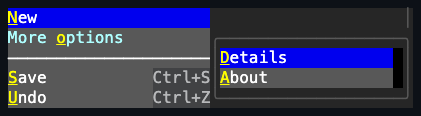
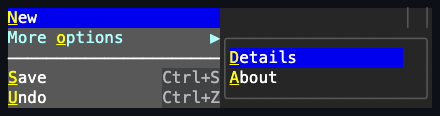
Refresh bar showcase and documentation

diff --git a/examples/Showcase/Panes/MenuPane.cs b/examples/Showcase/Panes/MenuPane.cs
@@ -120,6 +120,7 @@ internal sealed class MenuPane: CompositeControlBase
         menuBar.Items.Add(fileItem);
         menuBar.Items.Add(editItem);
         menuBar.Items.Add(viewItem);
+        menuBar.Items.Add(new MenuSeparator());
         menuBar.Items.Add(helpItem);
 
         // PropertyChanged reports selection path; ItemInvoked reports committed activation.
@@ -154,6 +155,7 @@ internal sealed class MenuPane: CompositeControlBase
 
         var barFrame = new Dock
         {
+            Height = Length.Cells(12),
             Border = new Border(
                 BorderSide.Bottom,
                 BorderGlyphStyle.Light,
@@ -286,7 +288,7 @@ internal sealed class MenuPane: CompositeControlBase
                 "The top menu owns one <info>Dismiss</info> plane for its complete popup chain. Submenus default to a 15-cell minimum; Open Recent demonstrates direct <info>MinWidth</info>/<info>MaxWidth</info> bounds. Hover or arrows switch an open sibling inside that plane, and <reverse>Escape</reverse> restores the owning menu.",
                 new DocExample(
                     "Application menu bar",
-                    "Click or press <reverse>Enter</reverse> on File, Edit, View, or Help, then hover another heading to switch without leaving the menu plane. <reverse>Tab</reverse> and arrows move selection; Open Recent extends the same plane to the right.",
+                    "Click or press <reverse>Enter</reverse> on File, Edit, View, or Help, then hover another heading to switch without leaving the menu plane. <reverse>Tab</reverse> and arrows move selection, the vertical divider is skipped, <reverse>Right</reverse> opens a row marked with ▶, and <reverse>Left</reverse> returns one submenu level.",
                     new DocColumn(barFrame, barStatus),
                     "var file = new MenuItem { Text = \"&File\" };\nvar openRecentMenu = new Menu\n{\n    Orientation = Orientation.Vertical,\n    MinWidth = Length.Cells(15),\n    MaxWidth = Length.Percent(75),\n};\nopenRecentMenu.Items.Add(new MenuItem { Text = \"To&day\" });\nvar openRecent = new MenuItem { Text = \"O&pen Recent\", Submenu = openRecentMenu };\nvar fileMenu = new Menu { Orientation = Orientation.Vertical };\nfileMenu.Items.Add(new MenuItem { Text = \"Ne&w\" });\nfileMenu.Items.Add(openRecent);\nfile.Submenu = fileMenu;")),
             new DocSection(
@@ -309,7 +311,7 @@ internal sealed class MenuPane: CompositeControlBase
                 "<info>MenuBuilder</info> composes a <info>Menu</info> fluently instead of assembling <info>MenuItem</info> objects and an <info>Items</info> collection by hand. <info>Item</info>, <info>Check</info>, and <info>Radio</info> each take an optional <info>onInvoke</info> callback, and <info>Submenu</info> nests a fresh builder for the popup that opens on activation.",
                 new DocExample(
                     "Fluent builder chain",
-                    "Navigate with <reverse>Up</reverse>/<reverse>Down</reverse> arrows and <reverse>Enter</reverse> to invoke. <reverse>Right</reverse> opens Sort by; the three entries share one radio group.",
+                    "Navigate with <reverse>Up</reverse>/<reverse>Down</reverse> arrows and <reverse>Enter</reverse> to invoke. <reverse>Right</reverse> opens Sort by and <reverse>Left</reverse> returns; the three entries share one radio group.",
                     new DocColumn(builderFrame, builderStatus),
                     "var menu = MenuBuilder.Vertical()\n    .Item(\"&Refresh\", shortcut: \"F5\", onInvoke: Refresh)\n    .Item(\"Re&name\", onInvoke: Rename)\n    .Check(\"Show hidden fi&les\", onInvoke: ToggleHidden)\n    .Separator()\n    .Submenu(\"Sort b&y\", sortBy => sortBy\n        .Radio(\"&Kind\", groupName: \"sort\", isChecked: true, onInvoke: SortByKind)\n        .Radio(\"A&ge\", groupName: \"sort\", onInvoke: SortByAge)\n        .Radio(\"Si&ze\", groupName: \"sort\", onInvoke: SortBySize))\n    .Build();")),
             new DocSection(

diff --git a/examples/Showcase/Panes/StatusBarPane.cs b/examples/Showcase/Panes/StatusBarPane.cs
@@ -25,8 +25,8 @@ internal sealed class StatusBarPane: CompositeControlBase
                 "This is the scale a status bar is designed for: one persistent strip spanning an application surface, with activity and branch state on the left and precise document context on the right.",
                 new DocExample(
                     "Live application status",
-                    "Move the pointer across the editor to update <info>Mouse</info> coordinates. The leading Spinner and retained <info>CheckBox</info> share the same uninterrupted Bar background as passive status text; mixed Unicode separators divide trailing context, disabled <info>RO</info> changes only its ink, and the CheckBox toggles autosave through ordinary input.",
+                    "Move the pointer across the editor to update its compact coordinates. Click <info>Auto</info>, or Tab to it and press <reverse>Space</reverse>, to toggle autosave. The Spinner and retained <info>CheckBox</info> share the same uninterrupted Bar background as passive status text; mixed Unicode separators divide trailing context, and disabled <info>RO</info> changes only its ink.",
                     workspace,
-                    "var status = new StatusBar();\nstatus.Items.Add(new StatusBarItem\n{\n    Content = new Stack\n    {\n        Orientation = Orientation.Horizontal,\n        Children = { new Spinner(), new Text(\"Indexing\") }\n    }\n});\nstatus.Items.Add(new StatusBarItem\n{\n    Alignment = StatusBarItemAlignment.Right,\n    Content = new CheckBox { Text = \"Autosave\" }\n});\nstatus.Items.Add(new StatusBarItem\n{\n    Alignment = StatusBarItemAlignment.Right,\n    ShowLeftSeparator = true,\n    Content = pointerStatus\n});\nstatus.Items.Add(new StatusBarItem\n{\n    Alignment = StatusBarItemAlignment.Right,\n    IsEnabled = false,\n    Content = new Text(\"RO\")\n});\nDock.SetSide(status, DockSide.Bottom);")));
+                    "var status = new StatusBar();\nstatus.Items.Add(new StatusBarItem\n{\n    Content = new Stack\n    {\n        Orientation = Orientation.Horizontal,\n        Children = { new Spinner(), new Text(\"Index\") }\n    }\n});\nstatus.Items.Add(new StatusBarItem\n{\n    Alignment = StatusBarItemAlignment.Right,\n    Content = new CheckBox { Text = \"Auto\" }\n});\nstatus.Items.Add(new StatusBarItem\n{\n    Alignment = StatusBarItemAlignment.Right,\n    ShowLeftSeparator = true,\n    Content = pointerStatus\n});\nstatus.Items.Add(new StatusBarItem\n{\n    Alignment = StatusBarItemAlignment.Right,\n    IsEnabled = false,\n    Content = new Text(\"RO\")\n});\nDock.SetSide(status, DockSide.Bottom);")));
     }
 }

diff --git a/examples/Showcase/Panes/StatusBarWorkspace.cs b/examples/Showcase/Panes/StatusBarWorkspace.cs
@@ -17,10 +17,10 @@ internal sealed class StatusBarWorkspace: CompositeControlBase
         Height = Length.Cells(11);
         HorizontalAlignment = HorizontalAlignment.Left;
         VerticalAlignment = VerticalAlignment.Top;
-        PointerStatus = new Text("Mouse --,--") { Overflow = Overflow.Clip };
-        ActivityStatus = new Text("Indexing")
+        PointerStatus = new Text("--,--") { Overflow = Overflow.Clip };
+        ActivityStatus = new Text("Index")
         {
-            Width = Length.Cells(8),
+            Width = Length.Cells(5),
             Overflow = Overflow.Clip
         };
         var activity = new Stack
@@ -37,10 +37,10 @@ internal sealed class StatusBarWorkspace: CompositeControlBase
         {
             Height = Length.Cells(1),
             Padding = default,
-            Text = "&Autosave"
+            Text = "&Auto"
         };
         AutoSave.StateChanged += (_, _) =>
-            ActivityStatus.Content = AutoSave.IsChecked == true ? "Saved" : "Modified";
+            ActivityStatus.Content = AutoSave.IsChecked == true ? "Saved" : "Dirty";
 
         Bar = new StatusBar
         {
@@ -147,7 +147,7 @@ internal sealed class StatusBarWorkspace: CompositeControlBase
             return;
         }
 
-        PointerStatus.Content = FormattableString.Invariant($"Mouse {cells.X:D2},{cells.Y:D2}");
+        PointerStatus.Content = FormattableString.Invariant($"{cells.X:D2},{cells.Y:D2}");
     }
 
     private static StatusBarItem Item(

diff --git a/examples/Showcase/Panes/CommandBarPane.cs b/examples/Showcase/Panes/CommandBarPane.cs
@@ -173,7 +173,7 @@ internal sealed class CommandBarPane: CompositeControlBase
                 "Resize the bounded bar to watch its longest fitting source prefix stay primary. The ellipsis opens framed private MenuItem projections; disabled Share remains visible but unavailable.",
                 new DocExample(
                     "Resizable command bar",
-                    "Resize or disable the bar, activate a caption, or open overflow. Disabled rows and the overflow trigger keep the shared Bar fill while their ink changes. Separate logs prove the CommandBarItem, owner event, and ICommand retain the original semantic source.",
+                    "Resize or disable the bar, activate a caption, or open overflow. After the bar receives focus, use <reverse>Left</reverse>/<reverse>Right</reverse> or <reverse>Home</reverse>/<reverse>End</reverse> to move its single keyboard cursor and <reverse>Space</reverse> to activate. Disabled rows and the overflow trigger keep the shared Bar fill while their ink changes. Separate logs prove the CommandBarItem, owner event, and ICommand retain the original semantic source.",
                     specimen,
                     "var commands = new CommandBar { Width = Length.Cells(30) };\n" +
                     "commands.Items.Add(new CommandBarItem { Text = \"&Open\" });\n" +

diff --git a/docs/controls/menus/menu-item.md b/docs/controls/menus/menu-item.md
@@ -21,25 +21,25 @@ classDiagram
 
 ## API
 
-| Member                       | Type                                     | Default                | Description                                                                                 |
-| ---------------------------- | ---------------------------------------- | ---------------------- | ------------------------------------------------------------------------------------------- |
-| Inherited `Text`             | `string`                                 | `""`                   | The item's label.                                                                           |
-| `Kind`                       | `MenuItemKind`                           | `MenuItemKind.Command` | Chooses command, check, or radio activation semantics.                                      |
-| `IsChecked`                  | `bool`                                   | `false`                | Holds the check state for the check and radio kinds.                                        |
-| `GroupName`                  | `string?`                                | `null`                 | Scopes radio exclusivity within the containing menu.                                        |
-| `StartAffix`                 | `Affix?`                                 | `null`                 | Optional leading edge-pinned decoration, inboard of the check/radio marker.                 |
-| `EndAffix`                   | `Affix?`                                 | `null`                 | Optional trailing edge-pinned decoration, between the caption and the shortcut column.      |
-| `ShortcutText`               | `string?`                                | `null`                 | Shows a dim, right-aligned hint; registers no key binding.                                  |
-| `Shortcut`                   | `KeyGesture?`                            | `null`                 | A typed key chord that both derives `ShortcutText` and activates the item application-wide. |
-| `Submenu`                    | `Menu?`                                  | `null`                 | An optional popup-layer child menu the item owns.                                           |
-| `SubmenuChrome`              | `PopupChrome`                            | Theme-owned            | Gets or sets the submenu's owned popup border and shadow together.                          |
-| `Style`                      | `MenuItemStyle?`                         | `null`                 | Gets or sets the complete local presentation, including the check and radio marker glyphs.  |
-| `ActualStyle`                | `MenuItemStyle`                          | Resolved               | Read-only; the complete local, theme-owned, or code-owned presentation.                     |
-| Inherited `Command`          | `ICommand?`                              | `null`                 | Runs after `Invoked`, when bound and `CanExecute` allows it.                                |
-| Inherited `CommandParameter` | `object?`                                | `null`                 | The borrowed parameter passed to `Command` queries and execution.                           |
-| `PerformInvoke()`            | `void`                                   | —                      | Invokes the item programmatically.                                                          |
-| `ResetSubmenuChrome()`       | `void`                                   | —                      | Returns the submenu popup's border and shadow to `PopupChrome` ownership.                   |
-| `Invoked`                    | `EventHandler<MenuItemInvokedEventArgs>` | No subscribers         | Raised after activation commits, once any check state has updated.                          |
+| Member                       | Type                                     | Default                | Description                                                                                  |
+| ---------------------------- | ---------------------------------------- | ---------------------- | -------------------------------------------------------------------------------------------- |
+| Inherited `Text`             | `string`                                 | `""`                   | The item's label.                                                                            |
+| `Kind`                       | `MenuItemKind`                           | `MenuItemKind.Command` | Chooses command, check, or radio activation semantics.                                       |
+| `IsChecked`                  | `bool`                                   | `false`                | Holds the check state for the check and radio kinds.                                         |
+| `GroupName`                  | `string?`                                | `null`                 | Scopes radio exclusivity within the containing menu.                                         |
+| `StartAffix`                 | `Affix?`                                 | `null`                 | Optional leading edge-pinned decoration, inboard of the check/radio marker.                  |
+| `EndAffix`                   | `Affix?`                                 | `null`                 | Optional trailing edge-pinned decoration, between the caption and the shortcut column.       |
+| `ShortcutText`               | `string?`                                | `null`                 | Shows a dim, right-aligned hint; registers no key binding.                                   |
+| `Shortcut`                   | `KeyGesture?`                            | `null`                 | A typed key chord that both derives `ShortcutText` and activates the item application-wide.  |
+| `Submenu`                    | `Menu?`                                  | `null`                 | An optional popup-layer child menu the item owns.                                            |
+| `SubmenuChrome`              | `PopupChrome`                            | Theme-owned            | Gets or sets the submenu's owned popup border and shadow together.                           |
+| `Style`                      | `MenuItemStyle?`                         | `null`                 | Gets or sets the complete local presentation, including selection and submenu marker glyphs. |
+| `ActualStyle`                | `MenuItemStyle`                          | Resolved               | Read-only; the complete local, theme-owned, or code-owned presentation.                      |
+| Inherited `Command`          | `ICommand?`                              | `null`                 | Runs after `Invoked`, when bound and `CanExecute` allows it.                                 |
+| Inherited `CommandParameter` | `object?`                                | `null`                 | The borrowed parameter passed to `Command` queries and execution.                            |
+| `PerformInvoke()`            | `void`                                   | —                      | Invokes the item programmatically.                                                           |
+| `ResetSubmenuChrome()`       | `void`                                   | —                      | Returns the submenu popup's border and shadow to `PopupChrome` ownership.                    |
+| `Invoked`                    | `EventHandler<MenuItemInvokedEventArgs>` | No subscribers         | Raised after activation commits, once any check state has updated.                           |
 
 ## Keyboard
 
@@ -80,6 +80,12 @@ therefore fills the shared menu width, which lets content, shortcut hints, and
 separators line up as one aligned surface. An explicit alignment set by the
 caller still wins.
 
+A submenu-bearing item in a vertical menu reserves two trailing cells and draws
+`MenuItemStyle.SubmenuGlyph` at the trailing edge of that reservation. The
+portable default is `▶` with `>` fallback. Horizontal menu-bar headings do not
+draw this cue because their below-anchor behavior is already established by the
+bar role.
+
 An item's own `Invoked` subscribers finish before the menu forwards
 `Menu.ItemInvoked`. Both callbacks observe the committed check or radio state.
 If the item callback removes, moves, or disposes the item or its menu,
@@ -88,15 +94,17 @@ reports through a menu that no longer owns its item.
 
 ## Style-resolved glyphs
 
-Check and radio markers, and the separator's own rule glyph, resolve from
-`ActualStyle` rather than from a per-property override on the control. Neither
-`MenuItem` nor `MenuSeparator` exposes an individual glyph property or a
-`Reset*Glyph` method: `MenuItemStyle` carries the complete immutable
-`UncheckedGlyph`, `CheckedGlyph`, `RadioUncheckedGlyph`, and `RadioCheckedGlyph`
-set, and `MenuSeparatorStyle` carries `Glyph`. When no local `Style` is
-assigned, `ActualStyle` completes from the library's code-owned markers; the
-theme's `glyphs` family does not cover menu markers, so a local `Style` is the
-only way to move them.
+Check, radio, and submenu markers, plus the separator's axis-specific rule
+glyphs, resolve from `ActualStyle` rather than from a per-property override on
+the control. Neither `MenuItem` nor `MenuSeparator` exposes an individual glyph
+property or a `Reset*Glyph` method: `MenuItemStyle` carries the complete
+immutable `UncheckedGlyph`, `CheckedGlyph`, `RadioUncheckedGlyph`,
+`RadioCheckedGlyph`, and `SubmenuGlyph` set. `MenuSeparatorStyle.Glyph` is the
+horizontal rule used inside a vertical menu, while `VerticalGlyph` is the
+compact divider used in a horizontal menu. When no local `Style` is assigned,
+`ActualStyle` completes from the library's code-owned markers; the theme's
+`glyphs` family does not cover menu markers, so a local `Style` is the only way
+to move them.
 
 The normal `MenuItem` and `MenuSeparator` faces use `SemanticColor.Bar` so rows
 and gaps remain one continuous menu plane. The interactive fallback's focused,
@@ -119,7 +127,8 @@ theme-owned appearance unchanged in every state.
 [affixes](../../concepts/styling.md#instance-content-affix), the same reserved
 edge-pinned decoration [`Button`](../input/button.md#overview) exposes. A row's
 complete leading-to-trailing layout is the check/radio marker, then
-`StartAffix`, then the caption, then `EndAffix`, then the shortcut column:
+`StartAffix`, then the caption, then `EndAffix`, then an optional submenu
+marker, then the shortcut column:
 
 ```csharp
 new MenuItem

diff --git a/docs/controls/menus/menu.md b/docs/controls/menus/menu.md
@@ -30,16 +30,17 @@ classDiagram
 
 ## Keyboard
 
-| Key                 | Behavior                                                                    |
-| ------------------- | --------------------------------------------------------------------------- |
-| Left / Right        | Moves through a horizontal menu, wrapping and skipping unavailable entries. |
-| Up / Down           | Moves through a vertical menu, wrapping and skipping unavailable entries.   |
-| Tab / Shift+Tab     | Moves to the next or previous menu item regardless of orientation.          |
-| Home / End          | Selects the first or last available entry without wrapping.                 |
-| Enter               | Activates the selected item.                                                |
-| Space               | Activates the selected item on key release.                                 |
-| Escape              | Closes the active menu chain.                                               |
-| Alt+item access key | Selects and activates the matching item.                                    |
+| Key                 | Behavior                                                                      |
+| ------------------- | ----------------------------------------------------------------------------- |
+| Left                | Moves through a horizontal menu; closes the current nested vertical branch.   |
+| Right               | Moves through a horizontal menu; opens a selected vertical child menu.        |
+| Up / Down           | Moves through a vertical menu, wrapping and skipping unavailable entries.     |
+| Tab / Shift+Tab     | Moves to the next or previous menu item regardless of orientation.            |
+| Home / End          | Selects the first or last available entry without wrapping.                   |
+| Enter               | Activates the selected item.                                                  |
+| Space               | Activates on release when available, or immediately on a press-only terminal. |
+| Escape              | Closes the active menu chain.                                                 |
+| Alt+item access key | Selects and activates the matching item.                                      |
 
 ## Behavior
 
@@ -71,15 +72,19 @@ classDiagram
 
 ## Interaction
 
-Arrow keys follow `Orientation`, while Tab and Shift+Tab move forward and
-backward regardless of orientation; Caps Lock and Num Lock are incidental, while
-Shift and application-command-modified arrows and command-modified Tab remain
-unhandled. All navigation keys repeat while held. Navigation wraps, skips
-separators and unavailable items, updates `SelectedIndex`, and keeps focus on
-the menu. Enter, or a Space press completed on the menu, activates the selected
-private item with a keyboard cause, once per key hold and only with
-activation-eligible modifiers. A primary pointer click invokes through the
-shared [press-activation](../pressable.md#overview) contract.
+Arrow keys follow `Orientation`, while Right opens the selected child submenu
+from a vertical menu and Left closes one nested vertical branch before restoring
+focus to its owning menu. Tab and Shift+Tab move forward and backward regardless
+of orientation; Caps Lock and Num Lock are incidental, while Shift and
+application-command-modified arrows and command-modified Tab remain unhandled.
+All navigation keys repeat while held. Navigation wraps, skips separators and
+unavailable items, updates `SelectedIndex`, and keeps focus on the menu. Enter,
+or a completed Space gesture, activates the selected private item with a
+keyboard cause, once per key hold and only with activation-eligible modifiers.
+Terminals with authoritative releases show the pressed state until release;
+press-only terminals pulse and complete immediately instead of leaving the item
+latched. A primary pointer click invokes through the shared
+[press-activation](../pressable.md#overview) contract.
 
 An ampersand
 [access key](../../concepts/access-keys.md#focus-and-semantic-actions) on an
@@ -123,16 +128,19 @@ Window becomes a temporary younger scope and restores the Window plane when it
 closes.
 
 A horizontal menu opens item submenus below the anchor. A vertical menu opens
-nested submenus to the right. Popup edge fallback may flip those preferred
-directions to keep the framed surface inside the terminal. Closing a submenu
+nested submenus to the right; pressing Right on its selected submenu-bearing row
+uses that same path and transfers focus into the child menu. Popup edge fallback
+may flip those preferred directions to keep the framed surface inside the
+terminal. Pressing Left in that child, or otherwise closing a single submenu,
 restores focus to its owning menu before hiding the submenu content.
 
 Vertical menu width comes from independent label and shortcut measurements: the
-widest label plus a two-cell gutter plus the widest shortcut, clamped by the
-inherited `MinWidth` and `MaxWidth`. Shortcut text is right-aligned to the
-shared trailing edge, and label content cannot draw into the gutter. Changing
-either width constraint while attached invalidates measure, and an open retained
-submenu is remeasured and reframed on the next layout pass.
+widest label, an optional two-cell submenu indicator reservation, plus a
+two-cell gutter and the widest shortcut, clamped by the inherited `MinWidth` and
+`MaxWidth`. Shortcut text is right-aligned to the shared trailing edge, and
+label content cannot draw into the gutter. Changing either width constraint
+while attached invalidates measure, and an open retained submenu is remeasured
+and reframed on the next layout pass.
 
 A vertical menu also negotiates one shared leading
 [`StartAffix`](menu-item.md#affixes) column across every owned row: the widest
@@ -142,7 +150,8 @@ sibling that has one, instead of starting flush at its own empty column.
 `EndAffix` is never negotiated this way and stays purely per-item, matching how
 only the shortcut column, not a general trailing column, is shared. A horizontal
 menu applies no shared column at all; each item reserves only its own local
-affixes.
+affixes. A `MenuSeparator` follows the menu axis: it is a stretched horizontal
+rule in a vertical menu and a one-cell vertical divider in a horizontal menu.
 
 ### Keyboard navigation
 
@@ -180,6 +189,8 @@ staged items that are no longer live members of this menu radio group.
 ![The Menu control rendered in the live showcase](../../images/controls/menu.png)
 
 ![The Menu control with its popup open in the live showcase](../../images/controls/menu-open.png)
+
+![Right-arrow navigation opening a nested Menu branch in the live showcase](../../images/controls/menu-nested.png)
 
 ```csharp
 var menu = new Menu

diff --git a/docs/architecture/showcase.md b/docs/architecture/showcase.md
@@ -168,20 +168,20 @@ basenames, the confirmed save basename, or cancellation only after the temporary
 modal surface has restored focus and removed itself.
 
 The StatusBar page presents the control at application scale inside a bordered
-72-by-11-cell editor workspace. The pretend editor uses the same semantic
+46-by-11-cell editor workspace. The pretend editor uses the same semantic
 `Surface` background as an edit control and leaves two blank document rows above
 its visually distinct, bottom-docked `Background` status surface. The bar
 retains a real playing `Spinner`, branch state, pointer coordinates, caret
-position, encoding, line endings, and an interactive autosave `CheckBox` across
+position, a read-only indicator, and an interactive autosave `CheckBox` across
 leading and trailing item groups. Mixed bar, bullet, chevron, and diamond item
 separators demonstrate the predefined separator palette without wrapping
 retained content. Moving the pointer through the editor updates the coordinate
-item from routed `LocalCells`; clicking the CheckBox updates an eight-cell
-activity slot between `Indexing`, `Saved`, and `Modified` without shifting or
-clipping the adjacent branch. The bar's semantic hovered, focused, and checked
-appearances retain contrast against the status surface without local child
-appearance configuration. The example therefore demonstrates live composition
-and dispatcher-affine mutation, not a static row of labels.
+item from routed `LocalCells`; pointer or keyboard activation of the CheckBox
+updates a five-cell activity slot between `Index`, `Saved`, and `Dirty` without
+shifting or clipping the adjacent branch. The bar's semantic hovered, focused,
+and checked appearances retain contrast against the status surface without local
+child appearance configuration. The example therefore demonstrates live
+composition and dispatcher-affine mutation, not a static row of labels.
 
 The InfoBar page contrasts all four complete semantic presentations, then keeps
 one concise 44-cell warning notification interactive with an aligned checkbox

diff --git a/docs/controls/display/status-bar.md b/docs/controls/display/status-bar.md
@@ -80,7 +80,8 @@ portable `|` fallback rather than overwriting an adjacent cell.
 
 Presence and appearance of each separator are separate, independently settable
 facts: whether a separator exists reserves a cell and is layout, which the item
-owns; which glyph it draws is presentation, which the theme owns.
+owns; which glyph it draws is presentation, which the code-owned item style or a
+complete local `Style` owns.
 
 ## Keyboard
 
@@ -172,6 +173,8 @@ and viewport changes through the normal measure/arrange invalidation path.
 ## Example
 
 ![The StatusBar control rendered in the live showcase](../../images/controls/status-bar.png)
+
+![The StatusBar retaining its continuous surface while its embedded CheckBox is checked](../../images/controls/status-bar-checked.png)
 
 ```csharp
 var status = new StatusBar();

diff --git a/.agents/skills/ui-components/references/controls.md b/.agents/skills/ui-components/references/controls.md
@@ -46,6 +46,10 @@ exactly, with a local Inheritance diagram and the canonical
   `View`, `Build()`, and chrome helpers do not exist.
 - Raw Border and Shadow authoring is protected unless the control deliberately
   republishes complete chrome.
+- A one-focus `ItemsControl` whose private selected face shows Space press state
+  composes `EnableSelectedItemPressActivation`; it does not retain a second
+  control-local Space latch. The shared behavior owns authoritative-release and
+  press-only-terminal completion parity.
 
 ## Focused verification
 

diff --git a/docs/controls/input/command-bar.md b/docs/controls/input/command-bar.md
@@ -192,6 +192,8 @@ theme overlays and wins unchanged in every state.
 
 ![A disabled CommandBar retaining its Bar background while its foreground changes](../../images/controls/command-bar-disabled.png)
 
+![CommandBar keyboard roving keeps one focus stop while selecting a retained command](../../images/controls/command-bar-keyboard.png)
+
 ![The CommandBar private overflow menu opened in the live showcase](../../images/controls/command-bar-open.png)
 
 ```csharp
